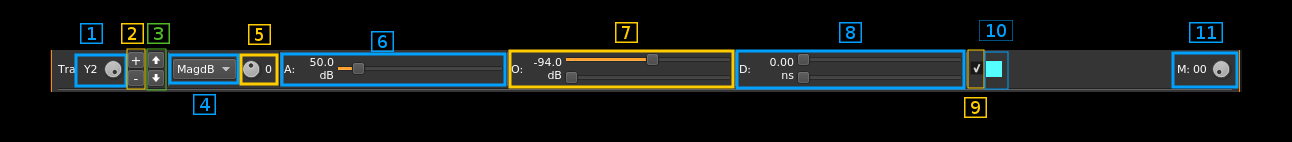
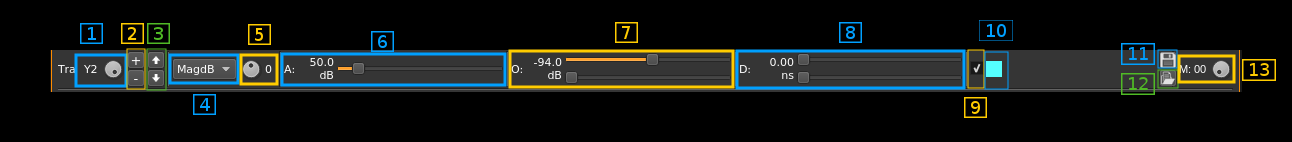
Scope: updated documentation and fixed live rate setting when a decimation takes place

Changed region(s): [[0.8669, 0.1408, 0.9907, 0.6761]]

diff --git a/sdrgui/dsp/scopevis.cpp b/sdrgui/dsp/scopevis.cpp
@@ -55,6 +55,7 @@ ScopeVis::ScopeVis(GLScope* glScope) :
     m_traceStart(true),
     m_sampleRate(0),
     m_liveSampleRate(0),
+    m_liveLog2Decim(0),
     m_traceDiscreteMemory(m_nbTraceMemories),
     m_freeRun(true),
     m_maxTraceDelay(0),
@@ -82,12 +83,19 @@ void ScopeVis::setLiveRate(int sampleRate)
     m_liveSampleRate = sampleRate;
 
     if (m_currentTraceMemoryIndex == 0) { // update only in live mode
-        setSampleRate(m_liveSampleRate);
+        setSampleRate(m_liveSampleRate/(1<<m_liveLog2Decim));
     }
+}
+
+void ScopeVis::setLiveRateLog2Decim(int log2Decim)
+{
+    m_liveLog2Decim = log2Decim;
+    setLiveRate(m_liveSampleRate);
 }
 
 void ScopeVis::setSampleRate(int sampleRate)
 {
+    qDebug("ScopeVis::setSampleRate: %d S/s", sampleRate);
     m_sampleRate = sampleRate;
 
     if (m_glScope) {
@@ -861,7 +869,7 @@ bool ScopeVis::handleMessage(const Message& message)
             // transition to live mode
             if (m_currentTraceMemoryIndex == 0)
             {
-                setSampleRate(m_liveSampleRate); // reset to live rate
+                setLiveRate(m_liveSampleRate); // reset to live rate
                 setTraceSize(m_liveTraceSize, true); // reset to live trace size
                 setPreTriggerDelay(m_livePreTriggerDelay, true); // reset to live pre-trigger delay
             }

diff --git a/sdrgui/dsp/scopevis.h b/sdrgui/dsp/scopevis.h
@@ -153,6 +153,7 @@ public:
     virtual ~ScopeVis();
 
     void setLiveRate(int sampleRate);
+    void setLiveRateLog2Decim(int log2Decim);
     void configure(uint32_t traceSize, uint32_t timeBase, uint32_t timeOfsProMill, uint32_t triggerPre, bool freeRun);
     void addTrace(const TraceData& traceData);
     void changeTrace(const TraceData& traceData, uint32_t traceIndex);
@@ -1106,6 +1107,7 @@ private:
     SampleVector::const_iterator m_triggerPoint;   //!< Trigger start location in the samples vector
     int m_sampleRate;                              //!< Actual sample rate being used
     int m_liveSampleRate;                          //!< Sample rate in live mode
+    int m_liveLog2Decim;                           //!< Sample rate decimation log2 in live mode
     TraceBackDiscreteMemory m_traceDiscreteMemory; //!< Complex trace memory for triggered states TODO: vectorize when more than on input is allowed
     bool m_freeRun;                                //!< True if free running (trigger globally disabled)
     int m_maxTraceDelay;                           //!< Maximum trace delay

diff --git a/plugins/channelrx/chanalyzer/chanalyzergui.cpp b/plugins/channelrx/chanalyzer/chanalyzergui.cpp
@@ -462,7 +462,7 @@ void ChannelAnalyzerGUI::setNewFinalRate()
 	QString s = QString::number(m_rate/1000.0, 'f', 1);
 	ui->spanText->setText(tr("%1 kS/s").arg(s));
 
-	m_scopeVis->setLiveRate(m_rate);
+	m_scopeVis->setLiveRate(getRequestedChannelSampleRate());
 }
 
 void ChannelAnalyzerGUI::setFiltersUIBoundaries()
@@ -547,6 +547,8 @@ void ChannelAnalyzerGUI::applySettings(bool force)
         ChannelAnalyzer::MsgConfigureChannelAnalyzer* message =
                 ChannelAnalyzer::MsgConfigureChannelAnalyzer::create( m_settings, force);
         m_channelAnalyzer->getInputMessageQueue()->push(message);
+
+        m_scopeVis->setLiveRateLog2Decim(m_settings.m_spanLog2);
 	}
 }
 

diff --git a/plugins/channelrx/chanalyzer/readme.md b/plugins/channelrx/chanalyzer/readme.md
@@ -321,11 +321,21 @@ By default the trace display is enabled and this checkbox is checked. You can op
 
 This area shows the current trace color. When clicking on it a color chooser dialog appears that lets you change the color of the current trace
 
-<h3>11. Memory select</h3>
+<h3>11. Save traces in memory</h3>
 
-The last 15 traces are stored in memory and this button lets you browse through traces in memory. The memory index appears on the left of the button. Traces in memory are sorted from latest (1) to oldest (15). The memory index 0 is the current live trace. When indexes > 0 are selected the live trace is suspended.
+While in memory mode (see E.13 next) use this button to save the bank of traces in memory (50 last traces) to file. A file dialog will open to let you choose the file name and locaion. By default the file extension is `.trcm`.
+
+<h3>12. Load traces into memory</h3>
+
+While in memory mode (see E.13 next) use this button to load traces previously saved to file using the (E.11) button into the traces memory bank (50 traces). A file dialog will open to let you select the file. It will look for files with `.trcm` extension by default. 
+
+<h3>13. Memory select</h3>
+
+The last 50 traces are stored in memory and this button lets you browse through traces in memory. The memory index appears on the left of the button. Traces in memory are sorted from latest (1) to oldest (50). The memory index 0 is the current live trace. When indexes > 0 are selected the live trace is suspended.
 
 It is the complex signal that is memorized actually so when a trace in memory is selected you can still use the global and trace controls to change the display. In particular the projection mode and the number of traces can be changed. Only the full trace length cannot be modified. When in memory mode the triggers are disabled since they only apply to a live trace.
+
+While in memory trace the save (E.11) and load (E.12) traces to file buttons can be used.
 
 <h2>F. Trigger control line</h2>
  

diff --git a/sdrgui/readme.md b/sdrgui/readme.md
@@ -284,7 +284,7 @@ This controls the decay rate of the stroke when phosphor display is engaged (4.C
 
 <h4>4.8. Phosphor display stroke decay divisor</h4>
 
-When phosphor display is engaged (4.C) and stroke decay is 1 (4.7) this divides the unit decay by this value by diminishing histogram pixel value by one each time a decay divisor of FFTs have been produced. So actual decay rate is 1 over this value.
+When phosphor display is engaged (4.C) and stroke decay is 1 (4.7) this divides the unit decay by this value by diminishing histogram pixel value by one each time a number of FFTs equal to this number have been produced. Thus the actual decay rate is 1 over this value. This allow setting a slower decay rate than one unit for each new FFT.
 
 <h4>4.9. Phosphor display stroke strength</h4>
 
